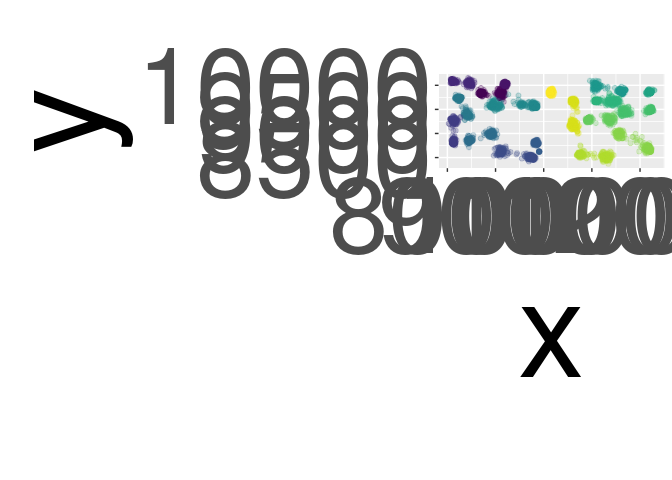
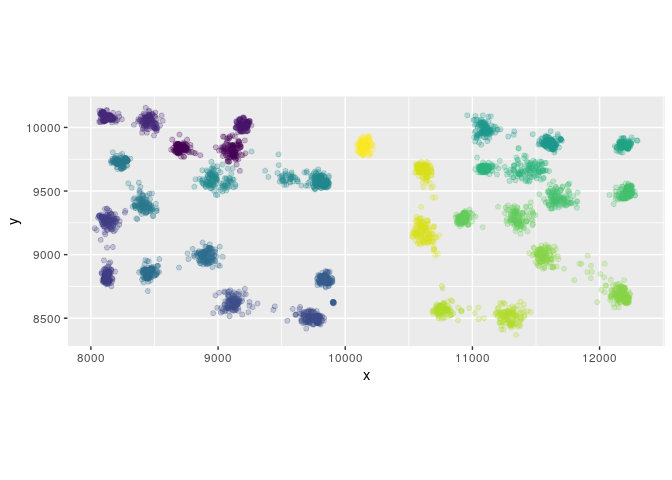
update image

diff --git a/readme.md b/readme.md
@@ -15,8 +15,7 @@ intial_plot = strokes %>%
                        color = hole)) +
   geom_point(alpha = 0.25) +
   coord_equal() +
-  theme(legend.position = "none", 
-        text = element_text(size = 100))
+  theme(legend.position = "none")
 
 intial_plot
 ```
